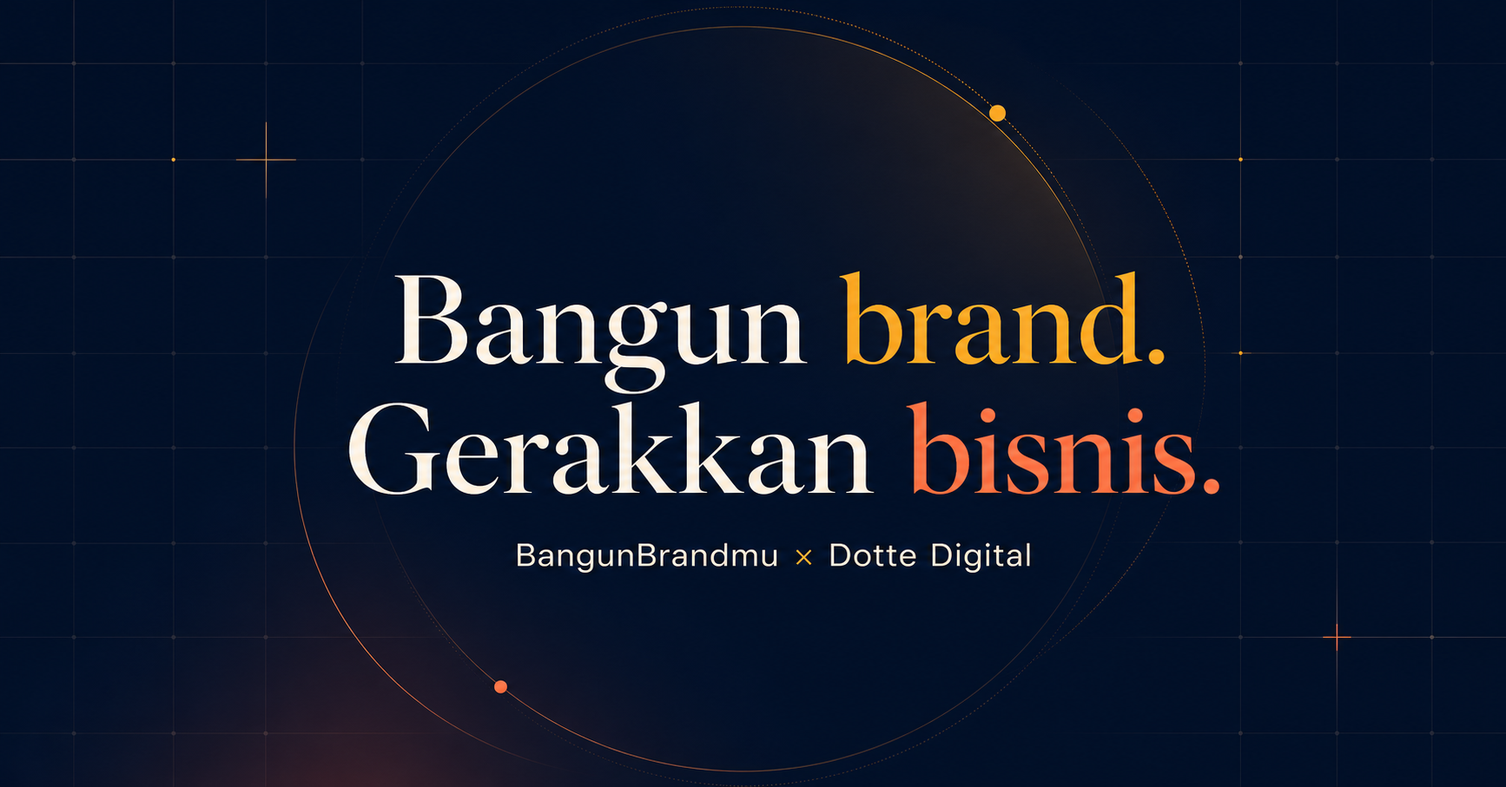
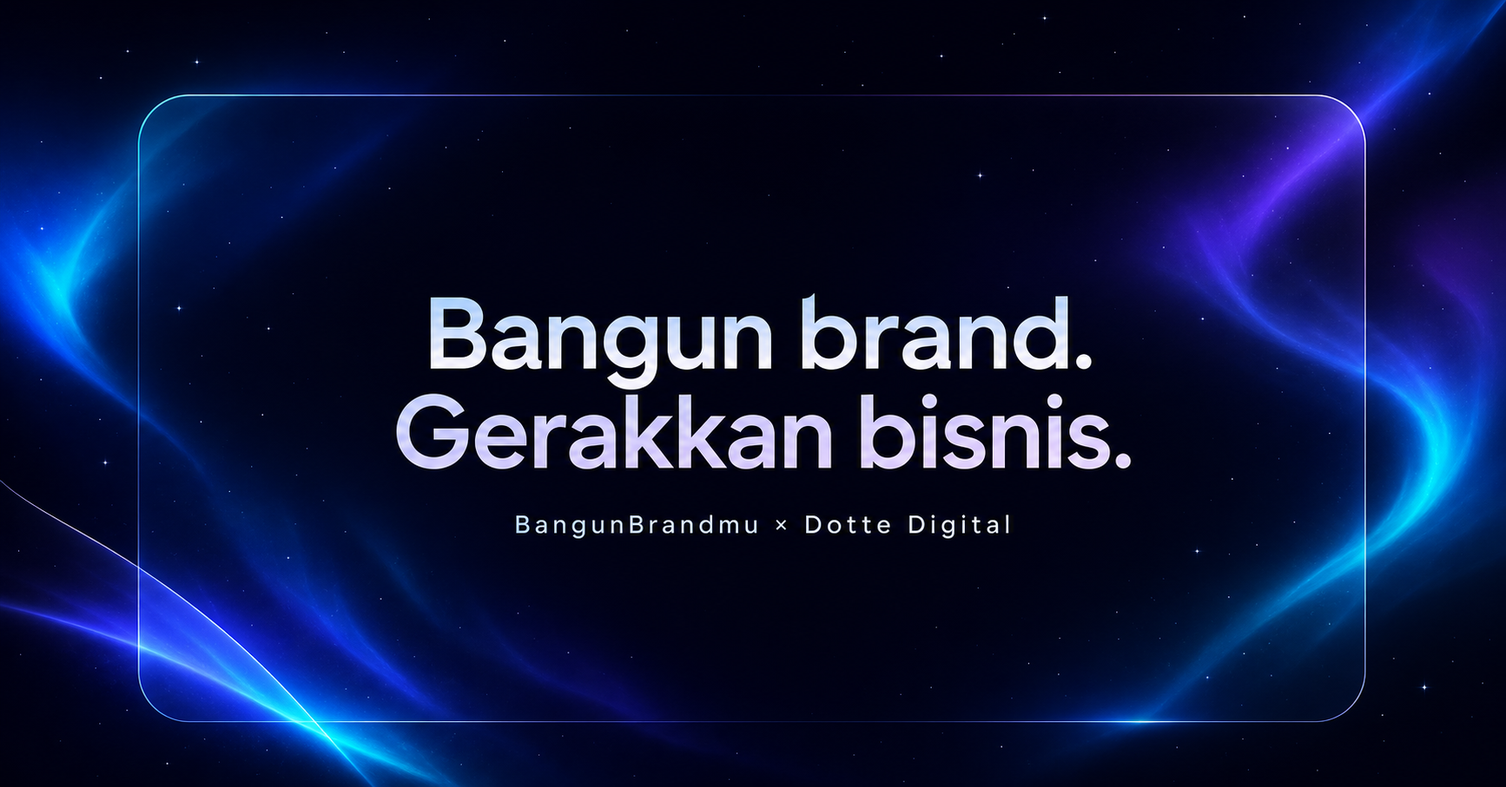
Add agency growth experience pages

diff --git a/app/expansion.css b/app/expansion.css
@@ -1,0 +1,2 @@
+/* Feature pages: tabs, cases, instant audit, articles, FAQ, and detailed enquiry */
+.nav nav{display:flex;gap:18px;align-items:center}.nav nav a{font-size:12px;color:var(--muted);text-decoration:none}.nav nav a:hover{color:#fff}.service-explorer{padding-top:20px}.service-tabs{display:flex;gap:9px;flex-wrap:wrap;border-bottom:1px solid var(--line);padding-bottom:22px}.service-tabs button{background:rgba(255,255,255,.035);border:1px solid var(--line);color:var(--muted);padding:11px 16px;border-radius:999px;cursor:pointer;font:inherit;font-size:13px}.service-tabs button.active,.service-tabs button:hover{background:var(--gold);border-color:var(--gold);color:#fff}.service-detail{display:grid;grid-template-columns:.78fr 1.22fr;gap:58px;padding:48px 0 14px}.service-detail h2{font-size:clamp(30px,3vw,49px);letter-spacing:-.05em;line-height:1.02;margin:13px 0 27px}.service-detail ul{padding:0;margin:0;list-style:none}.service-detail li{border-top:1px solid var(--line);padding:14px 0;color:var(--muted)}.service-detail li:before{content:"+";color:var(--gold);margin-right:10px}.package-grid{display:grid;grid-template-columns:repeat(3,1fr);gap:12px}.package-grid article{display:flex;min-height:280px;flex-direction:column;padding:21px;border:1px solid var(--line);background:rgba(255,255,255,.025);border-radius:18px}.package-grid article.featured{border-color:#0000ff;background:linear-gradient(160deg,rgba(0,0,255,.28),rgba(20,21,55,.5))}.package-grid p{color:#aeb5dc;margin:0}.package-grid h3{font-size:25px;line-height:1.04;letter-spacing:-.04em;margin:22px 0 10px}.package-grid span{color:var(--muted);font-size:13px;line-height:1.45}.package-grid a{margin-top:auto;text-decoration:none;color:#fff;font-size:13px;padding-top:20px}.work-grid{display:grid;grid-template-columns:repeat(2,1fr);gap:52px 30px}.work-card h2{margin:20px 0 7px;font-size:clamp(28px,3vw,43px);letter-spacing:-.04em}.work-card>p:last-of-type{max-width:600px;color:var(--muted);line-height:1.5;margin:13px 0}.work-meta{font-size:14px;color:#c7cbed!important}.work-visual{height:310px;border-radius:18px;border:1px solid rgba(255,255,255,.58);overflow:hidden;position:relative;background:linear-gradient(135deg,#0e585b,#09112d)}.work-visual.fund{background:radial-gradient(circle at 20% 20%,#047441,transparent 32%),radial-gradient(circle at 86% 62%,#594628,transparent 27%),#06111c}.work-visual.care{background:linear-gradient(135deg,#fff,#b8f0ef)}.work-visual.tpf{background:linear-gradient(135deg,#f6f1e9,#cceaff)}.work-visual.seller{background:linear-gradient(135deg,#fdfdfd,#b8dcff)}.work-visual.bca{background:linear-gradient(135deg,#f9fbff,#bbd8ff)}.work-screen{position:absolute;width:58%;height:64%;right:10%;bottom:0;padding:20px;border-radius:13px 13px 0 0;background:rgba(7,13,28,.9);box-shadow:0 18px 35px rgba(0,0,0,.35)}.care .work-screen,.tpf .work-screen,.seller .work-screen,.bca .work-screen{background:#fff;color:#1260c9}.work-screen span{font-size:16px;font-weight:700}.work-screen b,.work-screen i,.work-screen em{display:block;border-radius:5px;margin-top:18px}.work-screen b{height:25%;background:linear-gradient(90deg,#00b6d5,#ffad1e)}.work-screen i{height:10%;background:rgba(83,144,255,.55)}.work-screen em{height:10%;width:72%;background:rgba(255,255,255,.18)}.care .work-screen em,.tpf .work-screen em,.seller .work-screen em,.bca .work-screen em{background:#d4e7ff}.work-phone{position:absolute;width:68px;height:145px;bottom:18px;left:17%;border-radius:13px;background:#10192b;border:4px solid #dce7ef;transform:rotate(-10deg);z-index:2}.work-phone:before{content:"";display:block;margin:16px 9px;height:28px;border-radius:4px;background:#1db2c7}.work-phone b,.work-phone i,.work-phone em{display:block;height:8px;background:rgba(255,255,255,.3);margin:9px;border-radius:4px}.work-phone em{width:60%}.auto-audit{padding-top:12px}.audit-machine{display:grid;grid-template-columns:1.2fr .8fr;border:1px solid var(--line);border-radius:22px;overflow:hidden;background:rgba(255,255,255,.025)}.audit-machine>div{padding:42px}.audit-machine h2{font-size:clamp(30px,4vw,55px);letter-spacing:-.05em;margin:12px 0 31px}.audit-machine label{display:block;color:#c9cee8;font-size:13px;margin:18px 0}.audit-machine input,.audit-machine select,.work-form input,.work-form select,.work-form textarea{box-sizing:border-box;width:100%;margin-top:8px;border:1px solid var(--line);background:rgba(0,0,0,.24);color:#fff;border-radius:9px;padding:13px;font:inherit}.audit-machine select option,.work-form select option{background:#0d1028}.audit-machine aside{padding:42px;background:linear-gradient(150deg,rgba(0,0,255,.32),rgba(35,33,86,.22));border-left:1px solid var(--line)}.audit-machine aside>p{font-size:22px;margin:0 0 20px}.audit-machine li{color:#d3d6ec;margin:15px 0}.audit-machine small{display:block;color:#a3a8c9;line-height:1.5;margin-top:40px}.audit-result{text-align:center;padding:44px;border:1px solid var(--line);border-radius:22px;background:radial-gradient(circle at 50% 0,rgba(0,0,255,.28),transparent 50%),rgba(255,255,255,.02)}.signal-number{font-size:clamp(86px,14vw,160px);letter-spacing:-.1em;font-weight:700;line-height:.9;color:#fff}.signal-number span{font-size:20px;letter-spacing:0;color:var(--muted);margin-left:14px}.audit-result h2{max-width:580px;margin:28px auto;font-size:clamp(27px,4vw,48px);letter-spacing:-.05em;line-height:1.05}.result-columns{display:grid;grid-template-columns:repeat(3,1fr);gap:12px;text-align:left;margin-top:36px}.result-columns article{padding:20px;border:1px solid var(--line);border-radius:13px}.result-columns b{color:#6572ff}.result-columns p{color:var(--muted);font-size:14px;line-height:1.5}.result-actions{display:flex;justify-content:center;gap:10px;margin-top:30px}.button.outline{background:transparent;border:1px solid var(--line);color:#fff}.consultation-layout{padding-top:10px}.work-form{display:grid;grid-template-columns:.6fr 1.4fr;gap:40px;padding:38px;border:1px solid var(--line);border-radius:21px;background:rgba(255,255,255,.02)}.form-intro h2{font-size:clamp(32px,4vw,52px);letter-spacing:-.05em;line-height:1;margin:12px 0}.form-intro p:last-child{color:var(--muted)}.form-fields{display:grid;grid-template-columns:repeat(2,1fr);gap:16px}.form-fields label{font-size:13px;color:#ccd0e8}.form-fields .full{grid-column:1/-1}.form-fields textarea{resize:vertical}.form-fields .consent{display:flex;align-items:flex-start;gap:10px;line-height:1.45;color:var(--muted)}.consent input{width:auto;margin:3px 0}.form-fields button{justify-self:start;margin-top:5px}.form-success{padding:64px 10%;border:1px solid var(--line);border-radius:21px;text-align:center;background:rgba(255,255,255,.025)}.form-success h2{font-size:clamp(34px,5vw,62px);letter-spacing:-.06em;margin:12px 0}.form-success>p:not(.eyebrow){color:var(--muted);max-width:530px;margin:0 auto 25px}.article-grid{display:grid;grid-template-columns:repeat(3,1fr);gap:22px}.article-grid article{padding:0 0 22px}.article-art{height:190px;border-radius:15px;margin-bottom:25px;padding:16px;display:flex;align-items:flex-end;background:radial-gradient(circle at 75% 22%,#292dff,transparent 18%),linear-gradient(135deg,#15154f,#080a1d)}.article-art span{font-size:62px;font-weight:700;letter-spacing:-.1em}.art-2{background:radial-gradient(circle at 25% 55%,#8a5cff,transparent 21%),linear-gradient(135deg,#071c33,#0a0b20)}.art-3{background:radial-gradient(circle at 75% 65%,#006dff,transparent 26%),linear-gradient(135deg,#111c72,#08091d)}.article-grid h2{font-size:25px;letter-spacing:-.04em;line-height:1.08}.article-grid p:not(.eyebrow){color:var(--muted);line-height:1.5}.article-post{padding:115px 0}.article-post .wrap{max-width:780px}.back-link{display:inline-block;color:var(--muted);text-decoration:none;margin-bottom:55px}.article-post h1{font-size:clamp(45px,7vw,88px);letter-spacing:-.075em;line-height:.94;margin:13px 0 25px}.article-dek{font-size:22px;line-height:1.4;color:#c6cae3;max-width:680px}.article-body{margin-top:64px;font-size:18px;line-height:1.72;color:#c3c8e2}.article-body p{margin:0 0 25px}.article-next{border-top:1px solid var(--line);margin-top:55px;padding-top:25px}.article-next p{font-size:24px}.faq-list{max-width:900px}.faq-list article{border-top:1px solid var(--line)}.faq-list article:last-of-type{border-bottom:1px solid var(--line)}.faq-list button{display:flex;justify-content:space-between;align-items:center;width:100%;background:none;border:0;color:#fff;text-align:left;font:inherit;font-size:clamp(18px,2vw,25px);padding:23px 0;cursor:pointer}.faq-list button b{font-size:28px;color:#8090ff;font-weight:400}.faq-list article p{color:var(--muted);line-height:1.6;max-width:730px;margin:0;padding:0 40px 25px 0}.faq-cta{display:flex;justify-content:space-between;align-items:center;padding-top:40px}.faq-cta p{font-size:23px}@media(max-width:800px){.nav nav{display:none}.service-detail,.audit-machine,.work-form{grid-template-columns:1fr}.package-grid,.result-columns{grid-template-columns:1fr}.work-grid,.article-grid{grid-template-columns:1fr}.work-visual{height:280px}.audit-machine aside{border-left:0;border-top:1px solid var(--line)}.form-fields{grid-template-columns:1fr}.form-fields .full{grid-column:auto}.result-actions,.faq-cta{align-items:flex-start;flex-direction:column}.article-post{padding:80px 0}.article-post h1{font-size:48px}}

diff --git a/app/services/page.tsx b/app/services/page.tsx
@@ -1,4 +1,17 @@
+"use client";
+import { useState } from "react";
 import Link from "next/link";
 import { SiteShell } from "../components/SiteShell";
-const list=[['Brand & Strategy','Brand audit, positioning, naming, messaging, visual identity, dan brand guideline.'],['Website & Experience','Company profile, landing page, e-commerce, UI/UX, prototype, dan web application.'],['Growth & Performance','SEO, content, Google/Meta/TikTok Ads, tracking, funnel, dan marketing automation.'],['Technology & Product','Mobile app, dashboard, custom software, API integration, dan ongoing maintenance.']];
-export default function Services(){return <SiteShell><section className="inner-hero compact"><div className="wrap"><p className="eyebrow">SERVICES</p><h1>Dari ide yang jelas<br/>hingga hasil yang <i>terukur.</i></h1><p>Rangkaian kapabilitas yang dapat berdiri sendiri atau dirancang menjadi satu growth system yang utuh.</p></div></section><section className="wrap section"><div className="services-list">{list.map(([title,desc],i)=><article key={title}><small>0{i+1}</small><div><h2>{title}</h2><p>{desc}</p></div><Link href="/consultation">Talk to us <span>↗</span></Link></article>)}</div></section><section className="callout"><div className="wrap"><p className="eyebrow light">CUSTOM, NOT COOKIE-CUTTER</p><h2>Butuh kombinasi yang lebih spesifik?</h2><Link href="/consultation" className="button gold">Rancang scope Anda <span>→</span></Link></div></section></SiteShell>}
+
+const services = [
+  { name: "UI/UX Design", intro: "Interface yang membuat keputusan terasa lebih mudah.", bullets: ["UX research and customer journey", "Wireframe, prototype, and design system", "Website, dashboard, and mobile app UI"], plans: [["Basic", "Focused design sprint", "1 key flow, wireframes, visual direction"], ["Intermediate", "Product experience", "Core flows, clickable prototype, handoff"], ["Advanced", "Scalable design system", "Research, full experience, design system"]] },
+  { name: "Web Development", intro: "Website cepat, jelas, dan siap menjadi mesin konversi.", bullets: ["Company profile and conversion landing pages", "Responsive front-end and CMS-ready build", "Analytics, SEO foundations, and integrations"], plans: [["Basic", "Launch page", "One high-impact landing page"], ["Intermediate", "Growth website", "Multi-page site with analytics"], ["Advanced", "Digital platform", "Custom portal, integrations, ongoing support"]] },
+  { name: "Digital Marketing", intro: "Campaign dengan pesan yang konsisten dari awareness hingga action.", bullets: ["Campaign strategy and channel planning", "Content direction and paid media setup", "Reporting, experimentation, and optimization"], plans: [["Basic", "Campaign starter", "One channel and a clear launch plan"], ["Intermediate", "Growth campaign", "Multi-channel content and optimisation"], ["Advanced", "Performance engine", "Full-funnel campaign and weekly iteration"]] },
+  { name: "SEO", intro: "Organic visibility built around what your audience is searching for.", bullets: ["Technical and content opportunity audit", "Keyword map and on-page optimisation", "Content briefs, reporting, and growth roadmap"], plans: [["Basic", "SEO foundation", "Audit and priority fixes"], ["Intermediate", "SEO momentum", "Content plan and monthly optimisation"], ["Advanced", "Organic growth", "Technical, content, and authority programme"]] },
+  { name: "Branding", intro: "A distinct identity that aligns what you say, show, and deliver.", bullets: ["Positioning, audience, and competitive lens", "Naming, messaging, and verbal identity", "Visual identity, guidelines, and rollout"], plans: [["Basic", "Brand clarity", "Positioning workshop and direction"], ["Intermediate", "Brand identity", "Messaging and visual identity system"], ["Advanced", "Brand transformation", "Strategy, identity, guideline, launch support"]] },
+];
+
+export default function Services(){
+  const [active,setActive]=useState(0); const service=services[active];
+  return <SiteShell><section className="inner-hero compact"><div className="wrap"><p className="eyebrow">SERVICES</p><h1>One partner for the<br/><i>whole digital picture.</i></h1><p>Choose a focused engagement or combine disciplines into one connected growth system.</p></div></section><section className="wrap section service-explorer"><div className="service-tabs" role="tablist">{services.map((item,i)=><button key={item.name} className={i===active?"active":""} onClick={()=>setActive(i)} role="tab" aria-selected={i===active}>{item.name}</button>)}</div><div className="service-detail"><div><p className="eyebrow">0{active+1} / {service.name}</p><h2>{service.intro}</h2><ul>{service.bullets.map(b=><li key={b}>{b}</li>)}</ul></div><div className="package-grid">{service.plans.map(([name,tag,copy],i)=><article key={name} className={i===1?"featured":""}><p>{name}</p><h3>{tag}</h3><span>{copy}</span><Link href={`/consultation?service=${encodeURIComponent(service.name)}&package=${name}`}>Discuss this plan -&gt;</Link></article>)}</div></div></section><section className="callout"><div className="wrap"><p className="eyebrow light">CUSTOM, NOT COOKIE-CUTTER</p><h2>Need a combination built around your business?</h2><Link href="/consultation" className="button gold">Design your scope -&gt;</Link></div></section></SiteShell>;
+}

diff --git a/app/aurora.css b/app/aurora.css
@@ -1,0 +1,10 @@
+/* Dark aurora visual system */
+:root{--ink:#050611;--ink2:#0a0c22;--cream:#0b0d20;--paper:#050611;--gold:#0000ff;--orange:#6a5cff;--muted:#a7acc8;--line:rgba(154,170,255,.16)}
+body{background:var(--paper);color:#f7f8ff}.nav{background:rgba(5,6,17,.65);backdrop-filter:blur(22px);border-bottom:1px solid rgba(153,169,255,.13);color:#fff}.logo,nav a{color:#fff}.logo span{color:#6d7cff}.nav-cta{background:#0000ff;border-radius:999px;padding:13px 20px;box-shadow:0 0 28px rgba(0,0,255,.42)}
+.hero{min-height:780px;background:#050611;isolation:isolate}.hero:before{content:"";position:absolute;inset:-20%;z-index:-1;background:radial-gradient(circle at 72% 26%,rgba(0,40,255,.72),transparent 19%),radial-gradient(ellipse at 50% 92%,rgba(94,33,255,.48),transparent 34%),radial-gradient(ellipse at 9% 48%,rgba(0,140,255,.28),transparent 25%),linear-gradient(120deg,#050611 18%,#080d31 50%,#09071e 100%);filter:blur(20px);animation:aurora 13s ease-in-out infinite alternate}.hero:after{content:"";position:absolute;inset:0;z-index:-1;display:block;opacity:.55;background-image:radial-gradient(#fff .7px,transparent .7px);background-size:54px 54px;mask-image:linear-gradient(90deg,transparent,#000 40%,transparent)}@keyframes aurora{from{transform:scale(1) rotate(-3deg)}to{transform:scale(1.17) rotate(4deg)}}
+h1,h2,h3{font-family:'DM Sans',Arial,sans-serif;font-weight:700;letter-spacing:-.055em}h1{font-size:clamp(56px,7vw,108px);line-height:.95}.hero-copy,.inner-hero p,.consult>p{color:#bdc3e6}.eyebrow{color:#7d8aff}.eyebrow.light{color:#aab6ff}.gold{background:#0000ff;color:#fff;box-shadow:0 10px 36px rgba(0,0,255,.38)}.ghost{color:#fff;background:rgba(255,255,255,.08);border-color:rgba(255,255,255,.2);backdrop-filter:blur(12px)}.hero-notes{color:#aab0d4}.hero-notes span:before{color:#6070ff}
+.hero-art{background:transparent;border:1px solid rgba(148,169,255,.2);border-radius:26px;box-shadow:0 28px 80px rgba(0,0,0,.45);backdrop-filter:blur(14px)}.hero-art:before{content:"";position:absolute;inset:0;background:radial-gradient(circle at 71% 25%,#1555ff 0,transparent 26%),radial-gradient(circle at 27% 76%,#6c2fff 0,transparent 30%);opacity:.8}.art-sphere{background:radial-gradient(circle at 30% 28%,#fff 0 2%,#7de3ff 14%,#1248ff 45%,#050611 100%);filter:saturate(1.2)}.art-disc{border-color:rgba(255,255,255,.22)}.art-word{color:rgba(255,255,255,.12)}.art-sticker{background:rgba(7,9,28,.74);border:1px solid rgba(255,255,255,.18);backdrop-filter:blur(14px);border-radius:11px}.art-sticker b{color:#6e7eff}.signal-card{background:rgba(5,7,21,.66);border:1px solid rgba(255,255,255,.17);border-radius:15px;backdrop-filter:blur(18px)}.signal-top b,.meter b,.audit-progress b{background:#0000ff;color:#89a5ff}
+.intro,.audit-section{background:#070918}.intro h2,.audit-intro h2{color:#fff}.large-copy,.audit-intro>p:last-child{color:var(--muted)}.service-band,.statement,.callout,footer{background:#050611}.service-tease{background:rgba(255,255,255,.025);border-color:rgba(255,255,255,.12);border-radius:16px}.service-tease:hover{background:#0000ff;color:#fff;border-color:#0000ff}.service-tease:hover p,.service-tease:hover a{color:#fff}.service-tease small,.principles small,.services-list small{color:#8293ff}.service-tease a,.work-card a{border-color:#6574ff}
+.audit-section{padding-top:135px}.audit-card{background:rgba(11,13,32,.86);border-color:rgba(136,155,255,.35);box-shadow:18px 18px 0 #0000ff;border-radius:18px}.audit-category,.answers button b{color:#8492ff}.answers button{background:rgba(255,255,255,.04);color:#fff;border-color:rgba(255,255,255,.14);border-radius:10px}.answers button:hover{border-color:#5f72ff;background:rgba(0,0,255,.35)}.quote-section{background:linear-gradient(135deg,#070b2a,#100849 58%,#061d4c)}.quote-section .text-link{border-color:#a2b2ff}
+.inner-hero,.consult{background:radial-gradient(ellipse at 70% 0,rgba(0,42,255,.48),transparent 42%),#050611}.principles article,.work-card{background:#0d1025;border:1px solid rgba(255,255,255,.1)}.principles h2,.services-list h2,.work-card>h2{color:#fff}.principles p,.services-list p{color:var(--muted)}.services-list article{border-color:rgba(255,255,255,.14)}.services-list a{color:#a5b3ff}.work-card .work-visual{background:linear-gradient(145deg,#090d32,#0000ff)}.work-card:nth-child(2) .work-visual{background:linear-gradient(145deg,#12073d,#1f42ff)}.work-card:nth-child(3) .work-visual{background:linear-gradient(145deg,#061b40,#004cff)}.work-visual:after{border-color:rgba(255,255,255,.32)}.work-visual span,.work-visual b{color:#fff}.form-card{background:rgba(13,16,37,.9);color:#fff;border:1px solid rgba(255,255,255,.16);border-radius:22px}.form-card input,.form-card textarea{color:#fff;border-color:rgba(255,255,255,.18)}.form-note,.form-success>p:not(.eyebrow){color:var(--muted)!important}
+@media(max-width:760px){.hero{min-height:auto}.hero-art{border-radius:18px}.audit-card{box-shadow:8px 8px 0 #0000ff}}

diff --git a/app/consultation/page.tsx b/app/consultation/page.tsx
@@ -1,4 +1,4 @@
 "use client";
-import { useState } from "react";
+import { FormEvent, useState } from "react";
 import { SiteShell } from "../components/SiteShell";
-export default function Consultation(){const [sent,setSent]=useState(false);return <SiteShell><section className="consult"><div className="wrap consult-grid"><div><p className="eyebrow light">WORK TOGETHER</p><h1>Mari buat langkah berikutnya terasa lebih <i>pasti.</i></h1><p>Beritahu kami apa yang sedang Anda bangun, tantangan yang terasa paling mendesak, atau hasil audit Anda. Kami akan kembali dengan arah percakapan yang relevan.</p><div className="consult-points"><span>Strategy-first scope</span><span>Specialist team</span><span>Clear next steps</span></div></div><div className="form-card">{sent?<div className="form-success"><p className="eyebrow">MESSAGE RECEIVED</p><h2>Terima kasih.</h2><p>Kami sudah menerima konteks awal Anda. Tim kami akan menindaklanjuti untuk menyusun percakapan yang tepat.</p></div>:<form onSubmit={e=>{e.preventDefault();setSent(true)}}><label>Nama<input required placeholder="Nama Anda"/></label><label>Bisnis / brand<input required placeholder="Nama bisnis"/></label><label>Email<input required type="email" placeholder="nama@email.com"/></label><label>Apa yang ingin Anda capai?<textarea required placeholder="Ceritakan sedikit konteks atau tantangannya" rows={4}/></label><button className="button gold" type="submit">Kirim brief awal <span>→</span></button><p className="form-note">Form ini adalah preview interaksi. Hubungkan ke email/CRM saat siap go-live.</p></form>}</div></div></section></SiteShell>}
+export default function Consultation(){const [sent,setSent]=useState(false);const submit=(e:FormEvent)=>{e.preventDefault();setSent(true)};return <SiteShell><section className="inner-hero compact"><div className="wrap"><p className="eyebrow">WORK TOGETHER</p><h1>Bring us the ambition.<br/>We&apos;ll bring the <i>motion.</i></h1><p>Share enough context for a useful first conversation. We will come back with the right questions, not a generic sales pitch.</p></div></section><section className="wrap section consultation-layout">{sent?<div className="form-success"><p className="eyebrow">MESSAGE READY</p><h2>Thank you. Your brief is on its way.</h2><p>In a production handoff, connect this form to your preferred inbox, CRM, or scheduling workflow.</p><button className="button gold" onClick={()=>setSent(false)}>Send another brief</button></div>:<form className="work-form" onSubmit={submit}><div className="form-intro"><p className="eyebrow">PROJECT BRIEF</p><h2>Start with what matters.</h2><p>Fields marked with * help us prepare for the first call.</p></div><div className="form-fields"><label>Name *<input required placeholder="Your name"/></label><label>Work email *<input required type="email" placeholder="name@company.com"/></label><label>WhatsApp number<input type="tel" placeholder="+62 ..."/></label><label>Company / brand *<input required placeholder="Your business"/></label><label>Website or primary channel<input type="url" placeholder="https://"/></label><label>What do you need? *<select required defaultValue=""><option value="" disabled>Select a service</option><option>UI/UX Design</option><option>Web Development</option><option>Digital Marketing</option><option>SEO</option><option>Branding</option><option>Integrated growth project</option></select></label><label>Indicative investment<select defaultValue=""><option value="" disabled>Select a range</option><option>Under Rp25 juta</option><option>Rp25 - 75 juta</option><option>Rp75 - 150 juta</option><option>Rp150 juta+</option><option>Need guidance</option></select></label><label>Desired timeline<select defaultValue=""><option value="" disabled>Select a timeline</option><option>Within 1 month</option><option>1 - 3 months</option><option>3+ months</option><option>Exploring possibilities</option></select></label><label className="full">What would make this project successful? *<textarea required rows={5} placeholder="Goals, audience, current challenge, and any useful context."></textarea></label><label className="consent full"><input required type="checkbox"/> I agree that BangunBrandmu x Dotte Digital may use these details to respond to my enquiry.</label><button className="button gold" type="submit">Send project brief -&gt;</button></div></form>}</section></SiteShell>}

diff --git a/app/articles/[slug]/page.tsx b/app/articles/[slug]/page.tsx
@@ -1,0 +1,9 @@
+import Link from "next/link";
+import { notFound } from "next/navigation";
+import { SiteShell } from "../../components/SiteShell";
+const content:Record<string,{topic:string,title:string,dek:string,body:string[]}>={
+  "brand-signal":{topic:"STRATEGY",title:"How to turn a brand promise into a digital signal",dek:"A brand promise only earns value when people can recognise it in the moments that matter.",body:["Start with the tension your customer feels before they choose. A useful promise is not a description of your company; it is a clear commitment to change that tension.","Then make the commitment visible. It should guide the headline, the proof you choose, the way a page moves, and the call to action. Consistency does not mean every channel looks identical. It means each channel makes the same idea easier to recognise.","Finally, measure the signal. Are people taking the intended next step? Are sales conversations using the language you introduced? The strongest brands adjust the execution while protecting the promise."]},
+  "website-clarity":{topic:"EXPERIENCE",title:"Five signs your website is making visitors work too hard",dek:"The most common conversion barrier is not a lack of content. It is a lack of direction.",body:["Visitors should understand what you offer, who it is for, and what to do next without translating your language. If the first screen needs a long explanation, the message is carrying too much weight.","Use hierarchy to make decisions easy. One primary action, proof close to the claim it supports, and deliberate grouping of related information will do more than adding another paragraph.","Clarity also needs to survive the handoff to mobile. Review your pages at the smallest likely screen size and remove anything that makes the action harder to find."]},
+  "growth-system":{topic:"GROWTH",title:"Why the best growth campaigns start before the first ad",dek:"Media works harder when the destination and message are designed as one system.",body:["A campaign begins with an audience decision: who is most ready to act, what they need to believe, and why they should choose you now. The creative is a delivery mechanism for that decision.","Before spending, check the landing experience. Does it continue the message? Does it offer the next small commitment? Is measurement ready to tell you what changed? These questions keep early learning useful.","Treat every campaign as a loop. Message, page, analytics, and follow-up should inform the next iteration rather than operating as separate projects."]}
+};
+export default async function Article({params}:{params:Promise<{slug:string}>}){const {slug}=await params;const article=content[slug];if(!article)notFound();return <SiteShell><article className="article-post"><div className="wrap"><Link href="/articles" className="back-link">&lt;- All insights</Link><p className="eyebrow">{article.topic}</p><h1>{article.title}</h1><p className="article-dek">{article.dek}</p><div className="article-body">{article.body.map(p=><p key={p}>{p}</p>)}</div><div className="article-next"><p>Ready to apply this to your business?</p><Link className="button gold" href="/consultation">Talk to our team -&gt;</Link></div></div></article></SiteShell>}

diff --git a/app/works/page.tsx b/app/works/page.tsx
@@ -1,4 +1,11 @@
 import Link from "next/link";
 import { SiteShell } from "../components/SiteShell";
-const works=[['01','Fashion & Beauty','Mengubah perhatian menjadi purchase melalui creative testing, retargeting, dan pengalaman checkout yang lebih singkat.','Growth system'],['02','Service Business','Merapikan positioning, website, dan funnel agar expertise terasa lebih meyakinkan dan lead berkualitas datang lebih konsisten.','Brand to lead'],['03','Local Business','Membangun visibilitas lokal lewat SEO, Google Business Profile, dan landing page yang langsung mengarahkan calon pelanggan untuk menghubungi.','Local momentum']];
-export default function Works(){return <SiteShell><section className="inner-hero compact"><div className="wrap"><p className="eyebrow">SELECTED DIRECTIONS</p><h1>Work that makes<br/>business feel <i>clearer.</i></h1><p>Contoh arah kerja yang kami gunakan untuk menjembatani brand, experience, dan pertumbuhan.</p></div></section><section className="wrap section work-grid">{works.map(([no,industry,desc,label])=><article key={no} className="work-card"><div className="work-visual"><span>{no}</span><b>{label}</b><div /></div><p className="eyebrow">{industry}</p><h2>{desc}</h2><Link href="/consultation">Build a similar path <span>→</span></Link></article>)}</section></SiteShell>}
+const works=[
+  ["Alpha Trade","Mobile product design | 2024","A clearer mobile trading experience, designed to help users make confident decisions.","trade"],
+  ["Alpha Fund","App and website design | 2023","A connected investment journey across a responsive website and mobile product.","fund"],
+  ["Sesama.care","Health platform UI/UX | 2023","A warmer, more accessible health companion for everyday wellbeing.","care"],
+  ["TPFX","Digital product design | 2024","A trading platform experience for fast discovery, action, and clarity.","tpf"],
+  ["iSeller","E-commerce experience | 2022","A streamlined operating system for small businesses selling across channels.","seller"],
+  ["BCA x WE+","Landing page and dashboard | 2022","A document workflow designed for visibility, speed, and collaboration.","bca"],
+];
+export default function Works(){return <SiteShell><section className="inner-hero compact"><div className="wrap"><p className="eyebrow">SELECTED WORK</p><h1>Good work should feel<br/>impossible to <i>ignore.</i></h1><p>A selection of product, brand, and digital experiences. Replace or expand each story with approved case-study details.</p></div></section><section className="wrap section"><div className="work-grid">{works.map(([title,meta,copy,theme])=><article className="work-card" key={title}><div className={`work-visual ${theme}`}><div className="work-screen"><span>{title}</span><b></b><i></i><em></em></div><div className="work-phone"><b></b><i></i><em></em></div></div><h2>{title}</h2><p className="work-meta">{meta}</p><p>{copy}</p><Link href="/consultation" className="text-link">Start a similar project -&gt;</Link></article>)}</div></section></SiteShell>}

diff --git a/app/audit/page.tsx b/app/audit/page.tsx
@@ -1,0 +1,6 @@
+"use client";
+import { useState } from "react";
+import Link from "next/link";
+import { SiteShell } from "../components/SiteShell";
+type Channel="Website"|"Instagram"|"TikTok"|"LinkedIn";
+export default function AuditPage(){const [url,setUrl]=useState("");const [channel,setChannel]=useState<Channel>("Website");const [stage,setStage]=useState<"form"|"loading"|"result">("form");const score=Math.min(86,52+url.length%29);const run=()=>{if(!url.trim())return;setStage("loading");setTimeout(()=>setStage("result"),900)};return <SiteShell><section className="inner-hero compact audit-hero"><div className="wrap"><p className="eyebrow">INSTANT CHANNEL AUDIT</p><h1>Find your next<br/><i>growth signal.</i></h1><p>Get a focused channel-readiness report in under a minute. It is a planning assessment, not a replacement for a live technical crawl.</p></div></section><section className="wrap section auto-audit">{stage!=="result"?<div className="audit-machine"><div><p className="eyebrow">STEP 01</p><h2>What should we look at?</h2><label>Channel<select value={channel} onChange={e=>setChannel(e.target.value as Channel)}><option>Website</option><option>Instagram</option><option>TikTok</option><option>LinkedIn</option></select></label><label>{channel} URL or handle<input value={url} onChange={e=>setUrl(e.target.value)} placeholder={channel==="Website"?"https://yourbrand.com":"@yourbrand"}/></label><button className="button gold" onClick={run}>{stage==="loading"?"Reading signals...":"Generate my audit ->"}</button></div><aside><p>What you will receive</p><ul><li>Clarity and conversion signals</li><li>Content or experience opportunities</li><li>Three prioritised next actions</li></ul><small>For live data, competitor comparisons, and platform metrics, connect the appropriate analytics or social API in the production build.</small></aside></div>:<div className="audit-result"><p className="eyebrow">YOUR READINESS SIGNAL</p><div className="signal-number">{score}<span>/100</span></div><h2>{channel} has a strong base. Make the next action clearer.</h2><div className="result-columns"><article><b>01 / Clarify</b><p>Lead with one audience promise and one primary action above the fold or in the bio.</p></article><article><b>02 / Prove</b><p>Bring one proof point forward: a result, story, testimonial, or product outcome.</p></article><article><b>03 / Repeat</b><p>Turn your strongest message into a repeatable content or landing-page series.</p></article></div><div className="result-actions"><button className="button gold" onClick={()=>setStage("form")}>Audit another channel</button><Link className="button outline" href="/consultation">Turn this into a plan</Link></div></div>}</section></SiteShell>}

diff --git a/app/faq/page.tsx b/app/faq/page.tsx
@@ -1,0 +1,6 @@
+"use client";
+import { useState } from "react";
+import Link from "next/link";
+import { SiteShell } from "../components/SiteShell";
+const questions=[["What kind of businesses do you work with?","We work with founders and in-house teams that need sharper brand strategy, a stronger digital experience, or a connected growth programme. The right fit matters more than company size."],["Can we start with only one service?","Yes. A focused design, website, SEO, or campaign engagement can stand alone. We will also flag dependencies that could affect the outcome."],["How does an engagement begin?","After the project brief, we schedule a discovery conversation, align on scope and success measures, then share a tailored recommendation and timeline."],["How long does a website or product project take?","A focused landing page can move in weeks; a multi-page website or product experience usually needs several phases. We confirm a realistic timeline after discovery."],["Do you offer ongoing support?","Yes. Retainers can cover optimisation, content and campaign work, design support, performance reporting, and product iteration."],["Is the Instant Channel Audit connected to live data?","The current on-site audit is an instant planning assessment. Live channel metrics, technical crawl data, or competitor analysis require approved platform/API connections in the production stack."]];
+export default function FAQ(){const [open,setOpen]=useState(0);return <SiteShell><section className="inner-hero compact"><div className="wrap"><p className="eyebrow">FAQ</p><h1>Clear answers before<br/>we start <i>moving.</i></h1><p>Everything you may want to know before bringing us into the room.</p></div></section><section className="wrap section faq-list">{questions.map(([q,a],i)=><article key={q} className={i===open?"open":""}><button onClick={()=>setOpen(i===open?-1:i)} aria-expanded={i===open}><span>{q}</span><b>{i===open?"-":"+"}</b></button>{i===open&&<p>{a}</p>}</article>)}<div className="faq-cta"><p>Still have a question?</p><Link className="button gold" href="/consultation">Start a conversation -&gt;</Link></div></section></SiteShell>}

diff --git a/app/components/SiteShell.tsx b/app/components/SiteShell.tsx
@@ -2,5 +2,5 @@ import Link from "next/link";
 import type { ReactNode } from "react";
 
 export function SiteShell({ children }: { children: ReactNode }) {
-  return <><header className="nav"><Link href="/" className="logo">b<span>+</span>d</Link><nav><Link href="/vision">Our Vision</Link><Link href="/services">Services</Link><Link href="/works">Works</Link></nav><Link href="/consultation" className="nav-cta">Work together <span>↗</span></Link></header><main>{children}</main><footer><div className="wrap footer-grid"><div><Link href="/" className="logo">b<span>+</span>d</Link><p>Brand strategy meets digital momentum.</p></div><div><p>Ready when you are.</p><Link href="/consultation" className="text-link">Let&apos;s work together <span>→</span></Link></div></div><div className="wrap footer-bottom">© 2026 BangunBrandmu × Dotte Digital</div></footer></>;
+  return <><header className="nav"><Link href="/" className="logo">b<span>+</span>d</Link><nav><Link href="/vision">Vision</Link><Link href="/services">Services</Link><Link href="/works">Works</Link><Link href="/articles">Insights</Link><Link href="/audit">Audit</Link></nav><Link href="/consultation" className="nav-cta">Work together <span>-&gt;</span></Link></header><main>{children}</main><footer><div className="wrap footer-grid"><div><Link href="/" className="logo">b<span>+</span>d</Link><p>Brand strategy meets digital momentum.</p></div><div><p>Explore the next move.</p><Link href="/faq" className="text-link">Frequently asked questions <span>-&gt;</span></Link></div><div><p>Ready when you are.</p><Link href="/consultation" className="text-link">Let&apos;s work together <span>-&gt;</span></Link></div></div><div className="wrap footer-bottom">Copyright 2026 BangunBrandmu x Dotte Digital</div></footer></>;
 }

diff --git a/app/articles/page.tsx b/app/articles/page.tsx
@@ -1,0 +1,8 @@
+import Link from "next/link";
+import { SiteShell } from "../components/SiteShell";
+const articles=[
+  ["brand-signal","How to turn a brand promise into a digital signal","Strategy","A practical way to make positioning visible in the moments that influence choice."],
+  ["website-clarity","Five signs your website is making visitors work too hard","Experience","Clarity is not less personality. It is a faster route to the value your brand creates."],
+  ["growth-system","Why the best growth campaigns start before the first ad","Growth","A connected view of message, landing experience, content, and measurement."],
+];
+export default function Articles(){return <SiteShell><section className="inner-hero compact"><div className="wrap"><p className="eyebrow">INSIGHTS</p><h1>Useful thinking for<br/>brands in <i>motion.</i></h1><p>Notes on strategy, experience, and sustainable digital growth.</p></div></section><section className="wrap section article-grid">{articles.map(([slug,title,topic,copy],i)=><article key={slug}><div className={`article-art art-${i+1}`}><span>0{i+1}</span></div><p className="eyebrow">{topic}</p><h2>{title}</h2><p>{copy}</p><Link href={`/articles/${slug}`} className="text-link">Read article -&gt;</Link></article>)}</section></SiteShell>}

diff --git a/app/layout.tsx b/app/layout.tsx
@@ -1,5 +1,7 @@
 import type { Metadata } from "next";
 import "./globals.css";
+import "./aurora.css";
+import "./expansion.css";
 export const metadata: Metadata = {
   title: "BangunBrandmu × Dotte Digital",
   description: "Brand strategy and digital execution for businesses ready to grow.",
